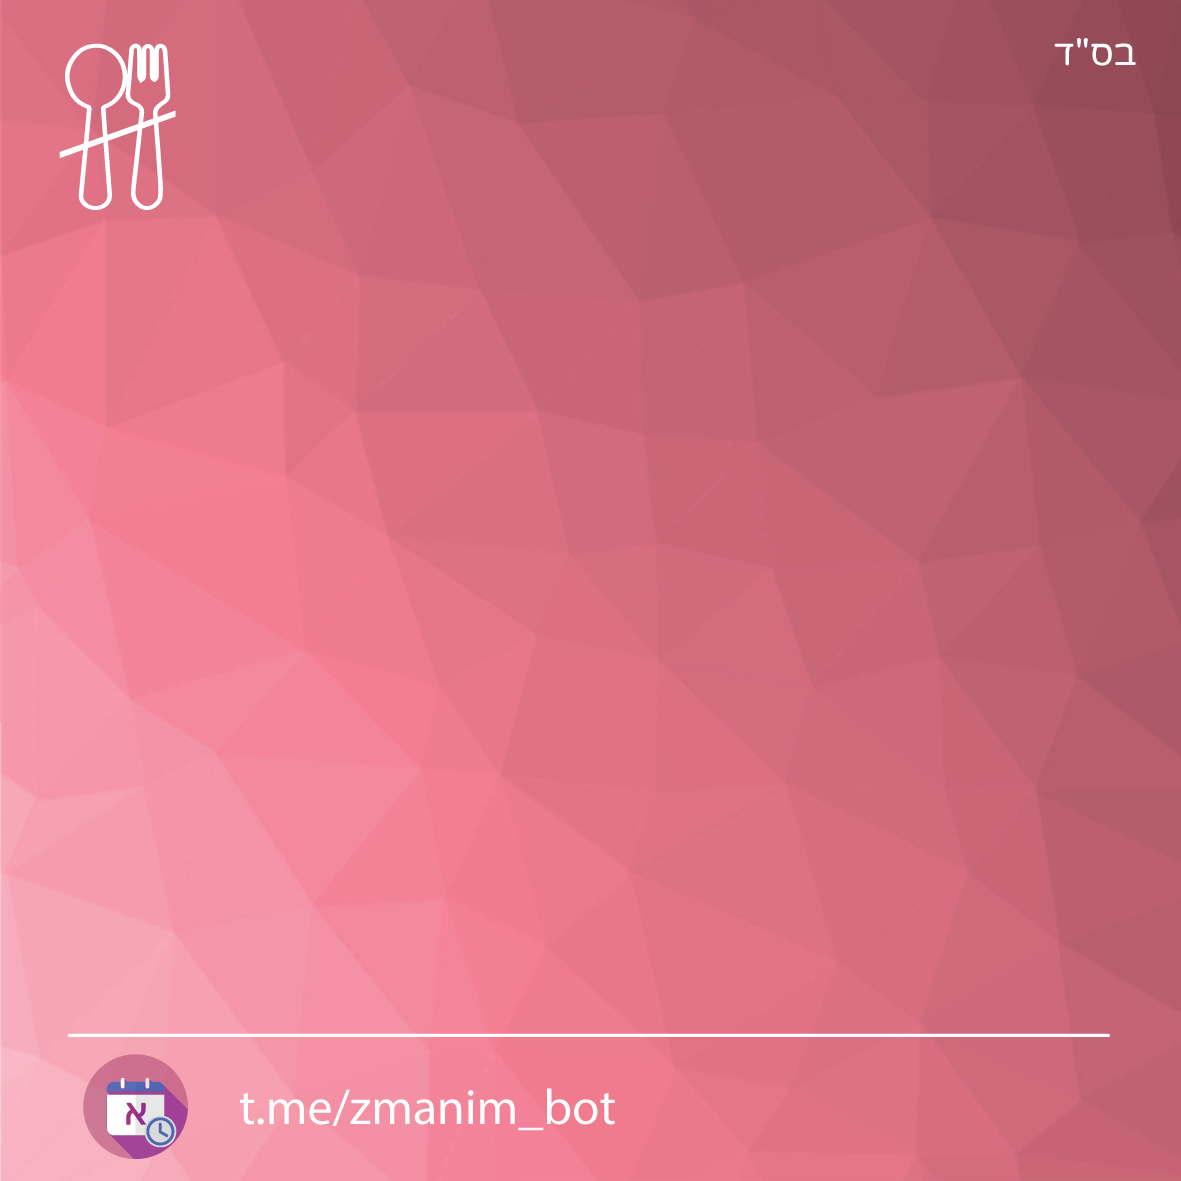
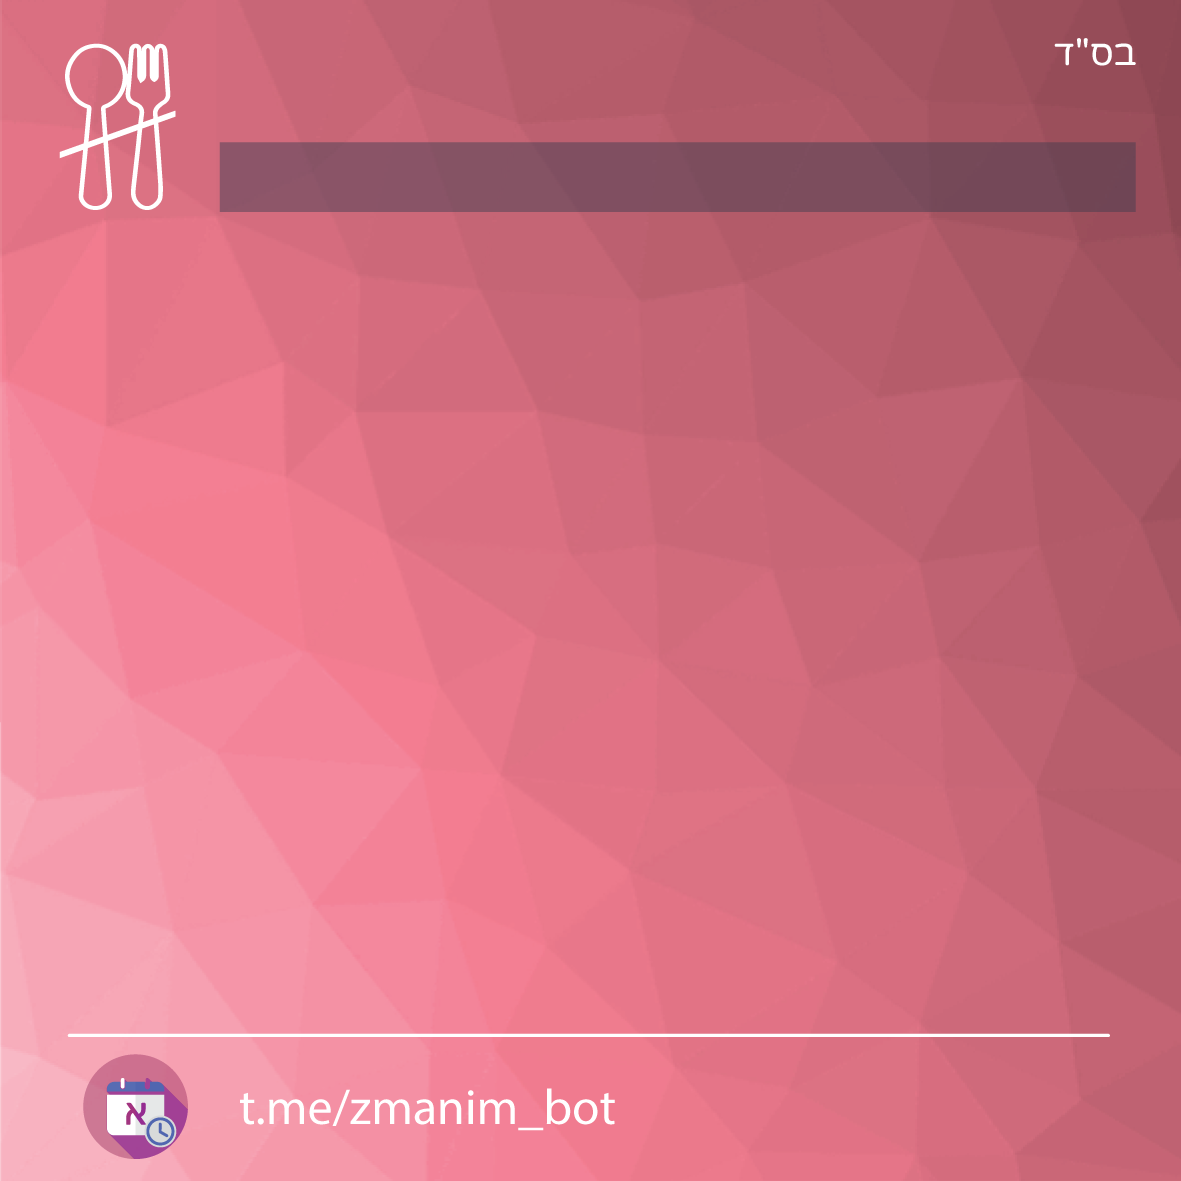
Add moved_fast info to fast picture

Changed region(s): [[0.1829, 0.1219, 0.9754, 0.1829]]

diff --git a/zmanim_bot/processors/image/image_processor.py b/zmanim_bot/processors/image/image_processor.py
@@ -117,7 +117,7 @@ class BaseImage:
 
     def _draw_title(self, draw: ImageDraw, title: LazyProxy, is_zmanim: bool = False,
                     is_shmini_atzeres: bool = False) -> None:
-        coordinates = (250, 90) if not is_zmanim else (250, 65)
+        coordinates = (220, 30) if not is_zmanim else (250, 65)
         font = self._title_font if not is_shmini_atzeres else self._title_font_sa
         draw.text(coordinates, title.value, font=font)
 
@@ -353,26 +353,30 @@ class FastImage(BaseImage):
     def get_image(self) -> BytesIO:
         self._draw_title(self._draw, names.FASTS_TITLES[self.data.settings.fast_name])
 
+        # self.data.moved_fast = True
+        self._draw.text(
+            (233, 137),
+            headers.fast_moved.value if self.data.moved_fast else headers.fast_not_moved.value,
+            font=self._bold_font,
+            fill='#ff5959' if self.data.moved_fast else '#8bff59'
+        )
+
         x = 100
         y = 450
 
         y_offset = 80
-        y_offset_sep = 100
-        y_offset_sep_small = 70
+        y_offset_small = 70
 
         # draw date and start time
         fast_date, fast_weekday = humanize_date([self.data.fast_start]).split(', ')
         fast_start_value = f'{fast_date}\n{fast_weekday}, {self.data.fast_start.time().isoformat("minutes")}'
         self._draw_line(x, y, headers.fast_start, fast_start_value)
+        y += self._y_font_offset(fast_start_value) + y_offset
 
         # draw hatzot, if need
         if self.data.chatzot:
-            y += y_offset_sep_small
-            self._draw_line(x, y, headers.fast_chatzot,
-                            self.data.chatzot.time().isoformat('minutes'))
-            y += y_offset + y_offset_sep_small
-        else:
-            y += y_offset_sep
+            self._draw_line(x, y, headers.fast_chatzot, self.data.chatzot.time().isoformat('minutes'))
+            y += y_offset_small
 
         # draw havdala
         self._draw_line(x, y, headers.fast_end, self.data.havdala.time().isoformat('minutes'))
@@ -409,18 +413,22 @@ class HolidayImage(BaseImage):
         x = 100
         y = 450
 
-        # TODO: add chanukah range days formatting
         holiday_last_date = self.data.date
         line_break = False
         if self.data.settings.holiday_name == 'chanukah':
             holiday_last_date += timedelta(days=7)
             line_break = True
 
+        date_value = humanize_date([self.data.date, holiday_last_date], weekday_on_new_line=line_break)
+
+        if (x + self._x_font_offset(headers.date.value) + self._x_font_offset(date_value)) > IMG_SIZE:
+            date_value = humanize_date([self.data.date, holiday_last_date], weekday_on_new_line=True)
+
         self._draw_line(
             x,
             y,
             headers.date,
-            humanize_date([self.data.date, holiday_last_date], weekday_on_new_line=line_break))
+            date_value)
         return _convert_img_to_bytes_io(self._image)
 
 
@@ -522,33 +530,3 @@ class YomTovImage(BaseImage):
 
         # self._image.save('test.png')
         return _convert_img_to_bytes_io(self._image)
-
-# def test():
-#     j = {
-#   "settings": {
-#     "date": "2022-04-15",
-#     "cl_offset": 18,
-#     "havdala_opinion": "tzeis_8_5_degrees",
-#     "coordinates": [
-#       55.5,
-#       37.7
-#     ],
-#     "elevation": 0,
-#     "yomtov_name": "shavuot"
-#   },
-#   "pre_shabbat": {
-#     "date": "2022-06-04",
-#     "candle_lighting": "2022-06-03T20:44:39.375578+03:00"
-#   },
-#   "day_1": {
-#     "date": "2022-06-05",
-#     "candle_lighting": "2022-06-04T22:36:39.212694+03:00"
-#   },
-#   "day_2": {
-#     "date": "2022-06-06",
-#     "candle_lighting": "2022-06-05T22:38:33.390085+03:00",
-#     "havdala": "2022-06-06T22:40:23.180390+03:00"
-#   }
-# }
-#     d = YomTov(**j)
-#     YomTovImage(d).get_image()

diff --git a/zmanim_bot/zmanim_api/models.py b/zmanim_bot/zmanim_api/models.py
@@ -1,5 +1,5 @@
 from __future__ import annotations
-from typing import List, Optional, Tuple
+from typing import List, Optional, Tuple, Dict
 from datetime import datetime, time, date
 
 from pydantic import BaseModel
@@ -21,6 +21,7 @@ __all__ = [
 
 class SimpleSettings(BaseModel):
     date_: Optional[date] = None
+    jewish_date: Optional[str] = None
     holiday_name: Optional[str] = None
 
     class Config:
@@ -95,6 +96,9 @@ class Holiday(BaseModel):
     date: date
 
 
+IsraelHolidays = List[Dict[str, date]]
+
+
 class YomTov(BaseModel):
     settings: Settings
     pre_shabbat: Optional[AsurBeMelachaDay] = None
@@ -109,7 +113,7 @@ class YomTov(BaseModel):
 
 class Fast(BaseModel):
     settings: Settings
-    fast_deferred: Optional[bool] = False
+    moved_fast: Optional[bool] = False
     fast_start: Optional[datetime] = None
     chatzot: Optional[datetime] = None
     havdala: Optional[datetime] = None

diff --git a/zmanim_bot/zmanim_api/client.py b/zmanim_bot/zmanim_api/client.py
@@ -1,3 +1,5 @@
+from typing import List, Dict
+
 from ..misc import bot
 from ..api import Location
 from . import models
@@ -105,3 +107,17 @@ async def get_generic_holiday(name: str) -> models.Holiday:
     async with bot.session.get(url, params=params) as resp:
         raw_resp = await resp.json()
         return models.Holiday(**raw_resp)
+
+
+async def get_israel_holidays() -> models.IsraelHolidays:
+    url = ZMANIM_API_URL.format('holiday')
+    result = []
+
+    for name in ['yom_hashoah', 'yom_hazikaron', 'yom_haatzmaut', 'yom_yerushalaim']:
+        params = {'holiday_name': name}
+
+        async with bot.session.get(url, params=params) as resp:
+            raw_resp = await resp.json()
+            result.append({name: raw_resp['date']})
+
+    return result

diff --git a/zmanim_bot/texts/single/headers.py b/zmanim_bot/texts/single/headers.py
@@ -17,5 +17,7 @@ havdala = _('havdala')
 fast_start = _('the fast begins')
 fast_end = _('the fast end')
 fast_chatzot = _('chatzot')
+fast_moved = _('Attention, moved fast!')
+fast_not_moved = _('Fast was\'nt moved')
 
 hoshana_raba = _('hoshana rabah')
